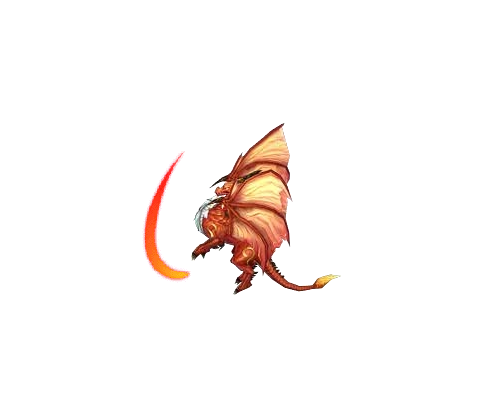
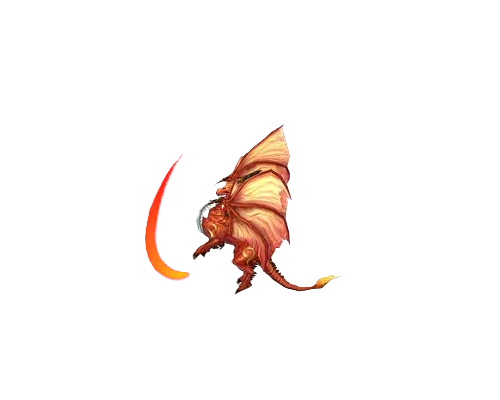
20241221:更新MOnster5素材,解决攻击bug

diff --git a/Classes/Player.h b/Classes/Player.h
@@ -5,6 +5,7 @@
 #include "cocos2d.h"
 #include "Creature.h"
 #include "Item.h"
+#include "MapManager.h"
 
 USING_NS_CC;
 using namespace std;
